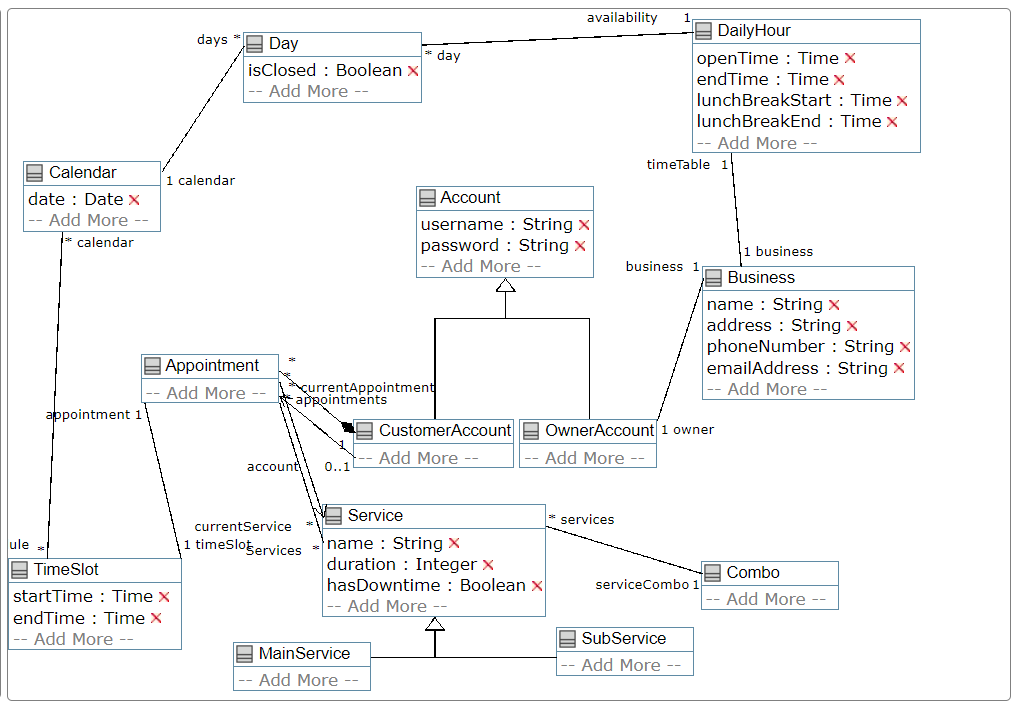
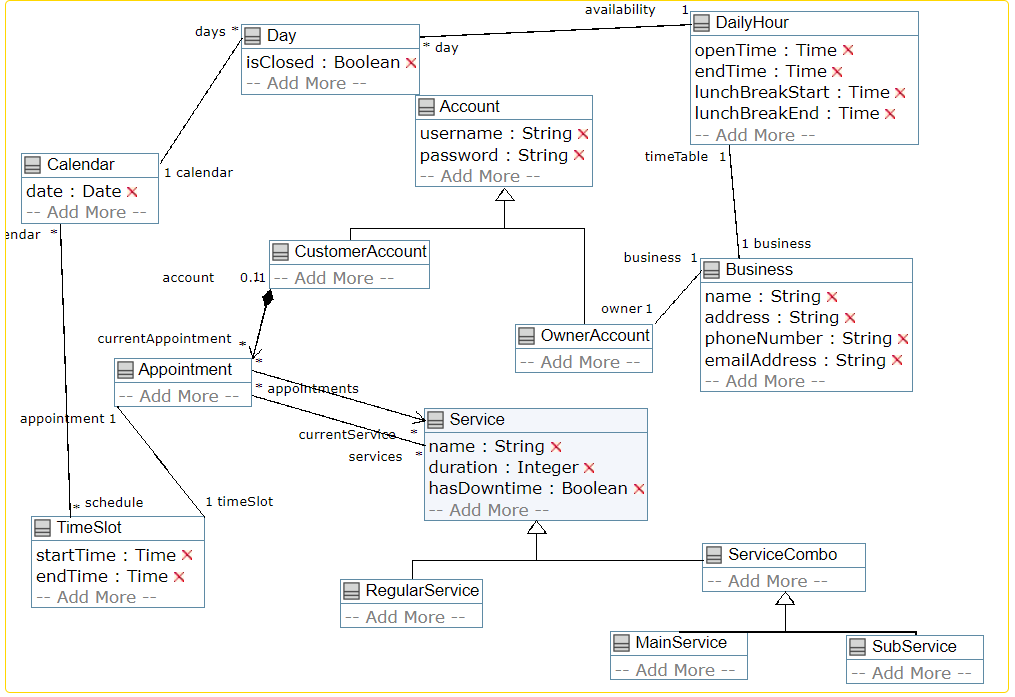
redone generated code

diff --git a/src/ca/mcgill/ecse223/flexibook/model/Appointment.java b/src/ca/mcgill/ecse223/flexibook/model/Appointment.java
@@ -6,7 +6,7 @@ import java.util.*;
 import java.sql.Time;
 
 // line 14 "../../../../../DomainModel.ump"
-// line 102 "../../../../../DomainModel.ump"
+// line 106 "../../../../../DomainModel.ump"
 public class Appointment
 {
 
@@ -17,7 +17,7 @@ public class Appointment
   //Appointment Associations
   private TimeSlot timeSlot;
   private List<Service> currentService;
-  private List<Service> Services;
+  private List<Service> services;
   private CustomerAccount customerAccount;
 
   //------------------------
@@ -32,7 +32,7 @@ public class Appointment
     }
     timeSlot = aTimeSlot;
     currentService = new ArrayList<Service>();
-    Services = new ArrayList<Service>();
+    services = new ArrayList<Service>();
     boolean didAddCustomerAccount = setCustomerAccount(aCustomerAccount);
     if (!didAddCustomerAccount)
     {
@@ -44,7 +44,7 @@ public class Appointment
   {
     timeSlot = new TimeSlot(aStartTimeForTimeSlot, aEndTimeForTimeSlot, this);
     currentService = new ArrayList<Service>();
-    Services = new ArrayList<Service>();
+    services = new ArrayList<Service>();
     boolean didAddCustomerAccount = setCustomerAccount(aCustomerAccount);
     if (!didAddCustomerAccount)
     {
@@ -93,31 +93,31 @@ public class Appointment
   /* Code from template association_GetMany */
   public Service getService(int index)
   {
-    Service aService = Services.get(index);
+    Service aService = services.get(index);
     return aService;
   }
 
   public List<Service> getServices()
   {
-    List<Service> newServices = Collections.unmodifiableList(Services);
+    List<Service> newServices = Collections.unmodifiableList(services);
     return newServices;
   }
 
   public int numberOfServices()
   {
-    int number = Services.size();
+    int number = services.size();
     return number;
   }
 
   public boolean hasServices()
   {
-    boolean has = Services.size() > 0;
+    boolean has = services.size() > 0;
     return has;
   }
 
   public int indexOfService(Service aService)
   {
-    int index = Services.indexOf(aService);
+    int index = services.indexOf(aService);
     return index;
   }
   /* Code from template association_GetOne */
@@ -191,8 +191,8 @@ public class Appointment
   public boolean addService(Service aService)
   {
     boolean wasAdded = false;
-    if (Services.contains(aService)) { return false; }
-    Services.add(aService);
+    if (services.contains(aService)) { return false; }
+    services.add(aService);
     if (aService.indexOfAppointment(this) != -1)
     {
       wasAdded = true;
@@ -202,7 +202,7 @@ public class Appointment
       wasAdded = aService.addAppointment(this);
       if (!wasAdded)
       {
-        Services.remove(aService);
+        services.remove(aService);
       }
     }
     return wasAdded;
@@ -211,13 +211,13 @@ public class Appointment
   public boolean removeService(Service aService)
   {
     boolean wasRemoved = false;
-    if (!Services.contains(aService))
+    if (!services.contains(aService))
     {
       return wasRemoved;
     }
 
-    int oldIndex = Services.indexOf(aService);
-    Services.remove(oldIndex);
+    int oldIndex = services.indexOf(aService);
+    services.remove(oldIndex);
     if (aService.indexOfAppointment(this) == -1)
     {
       wasRemoved = true;
@@ -227,7 +227,7 @@ public class Appointment
       wasRemoved = aService.removeAppointment(this);
       if (!wasRemoved)
       {
-        Services.add(oldIndex,aService);
+        services.add(oldIndex,aService);
       }
     }
     return wasRemoved;
@@ -240,8 +240,8 @@ public class Appointment
     {
       if(index < 0 ) { index = 0; }
       if(index > numberOfServices()) { index = numberOfServices() - 1; }
-      Services.remove(aService);
-      Services.add(index, aService);
+      services.remove(aService);
+      services.add(index, aService);
       wasAdded = true;
     }
     return wasAdded;
@@ -250,12 +250,12 @@ public class Appointment
   public boolean addOrMoveServiceAt(Service aService, int index)
   {
     boolean wasAdded = false;
-    if(Services.contains(aService))
+    if(services.contains(aService))
     {
       if(index < 0 ) { index = 0; }
       if(index > numberOfServices()) { index = numberOfServices() - 1; }
-      Services.remove(aService);
-      Services.add(index, aService);
+      services.remove(aService);
+      services.add(index, aService);
       wasAdded = true;
     } 
     else 
@@ -293,8 +293,8 @@ public class Appointment
       existingTimeSlot.delete();
     }
     currentService.clear();
-    ArrayList<Service> copyOfServices = new ArrayList<Service>(Services);
-    Services.clear();
+    ArrayList<Service> copyOfServices = new ArrayList<Service>(services);
+    services.clear();
     for(Service aService : copyOfServices)
     {
       aService.removeAppointment(this);

diff --git a/src/ca/mcgill/ecse223/flexibook/model/Service.java b/src/ca/mcgill/ecse223/flexibook/model/Service.java
@@ -5,7 +5,7 @@ package ca.mcgill.ecse223.flexibook.model;
 import java.util.*;
 
 // line 34 "../../../../../DomainModel.ump"
-// line 125 "../../../../../DomainModel.ump"
+// line 129 "../../../../../DomainModel.ump"
 public class Service
 {
 
@@ -20,23 +20,17 @@ public class Service
 
   //Service Associations
   private List<Appointment> appointments;
-  private Combo serviceCombo;
 
   //------------------------
   // CONSTRUCTOR
   //------------------------
 
-  public Service(String aName, int aDuration, boolean aHasDowntime, Combo aServiceCombo)
+  public Service(String aName, int aDuration, boolean aHasDowntime)
   {
     name = aName;
     duration = aDuration;
     hasDowntime = aHasDowntime;
     appointments = new ArrayList<Appointment>();
-    boolean didAddServiceCombo = setServiceCombo(aServiceCombo);
-    if (!didAddServiceCombo)
-    {
-      throw new RuntimeException("Unable to create service due to serviceCombo. See http://manual.umple.org?RE002ViolationofAssociationMultiplicity.html");
-    }
   }
 
   //------------------------
@@ -115,11 +109,6 @@ public class Service
   {
     int index = appointments.indexOf(aAppointment);
     return index;
-  }
-  /* Code from template association_GetOne */
-  public Combo getServiceCombo()
-  {
-    return serviceCombo;
   }
   /* Code from template association_MinimumNumberOfMethod */
   public static int minimumNumberOfAppointments()
@@ -204,25 +193,6 @@ public class Service
     }
     return wasAdded;
   }
-  /* Code from template association_SetOneToMany */
-  public boolean setServiceCombo(Combo aServiceCombo)
-  {
-    boolean wasSet = false;
-    if (aServiceCombo == null)
-    {
-      return wasSet;
-    }
-
-    Combo existingServiceCombo = serviceCombo;
-    serviceCombo = aServiceCombo;
-    if (existingServiceCombo != null && !existingServiceCombo.equals(aServiceCombo))
-    {
-      existingServiceCombo.removeService(this);
-    }
-    serviceCombo.addService(this);
-    wasSet = true;
-    return wasSet;
-  }
 
   public void delete()
   {
@@ -232,12 +202,6 @@ public class Service
     {
       aAppointment.removeService(this);
     }
-    Combo placeholderServiceCombo = serviceCombo;
-    this.serviceCombo = null;
-    if(placeholderServiceCombo != null)
-    {
-      placeholderServiceCombo.removeService(this);
-    }
   }
 
 
@@ -246,7 +210,6 @@ public class Service
     return super.toString() + "["+
             "name" + ":" + getName()+ "," +
             "duration" + ":" + getDuration()+ "," +
-            "hasDowntime" + ":" + getHasDowntime()+ "]" + System.getProperties().getProperty("line.separator") +
-            "  " + "serviceCombo = "+(getServiceCombo()!=null?Integer.toHexString(System.identityHashCode(getServiceCombo())):"null");
+            "hasDowntime" + ":" + getHasDowntime()+ "]";
   }
 }

diff --git a/src/ca/mcgill/ecse223/flexibook/model/SubService.java b/src/ca/mcgill/ecse223/flexibook/model/SubService.java
@@ -4,9 +4,9 @@
 package ca.mcgill.ecse223.flexibook.model;
 import java.util.*;
 
-// line 82 "../../../../../DomainModel.ump"
-// line 170 "../../../../../DomainModel.ump"
-public class SubService extends Service
+// line 81 "../../../../../DomainModel.ump"
+// line 174 "../../../../../DomainModel.ump"
+public class SubService extends ServiceCombo
 {
 
   //------------------------
@@ -17,9 +17,9 @@ public class SubService extends Service
   // CONSTRUCTOR
   //------------------------
 
-  public SubService(String aName, int aDuration, boolean aHasDowntime, Combo aServiceCombo)
+  public SubService(String aName, int aDuration, boolean aHasDowntime)
   {
-    super(aName, aDuration, aHasDowntime, aServiceCombo);
+    super(aName, aDuration, aHasDowntime);
   }
 
   //------------------------

diff --git a/src/ca/mcgill/ecse223/flexibook/model/RegularService.java b/src/ca/mcgill/ecse223/flexibook/model/RegularService.java
@@ -4,9 +4,9 @@
 package ca.mcgill.ecse223.flexibook.model;
 import java.util.*;
 
-// line 76 "../../../../../DomainModel.ump"
-// line 169 "../../../../../DomainModel.ump"
-public class MainService extends ServiceCombo
+// line 86 "../../../../../DomainModel.ump"
+// line 179 "../../../../../DomainModel.ump"
+public class RegularService extends Service
 {
 
   //------------------------
@@ -17,7 +17,7 @@ public class MainService extends ServiceCombo
   // CONSTRUCTOR
   //------------------------
 
-  public MainService(String aName, int aDuration, boolean aHasDowntime)
+  public RegularService(String aName, int aDuration, boolean aHasDowntime)
   {
     super(aName, aDuration, aHasDowntime);
   }

diff --git a/src/ca/mcgill/ecse223/flexibook/model/ServiceCombo.java b/src/ca/mcgill/ecse223/flexibook/model/ServiceCombo.java
@@ -4,9 +4,9 @@
 package ca.mcgill.ecse223.flexibook.model;
 import java.util.*;
 
-// line 76 "../../../../../DomainModel.ump"
-// line 169 "../../../../../DomainModel.ump"
-public class MainService extends ServiceCombo
+// line 41 "../../../../../DomainModel.ump"
+// line 156 "../../../../../DomainModel.ump"
+public class ServiceCombo extends Service
 {
 
   //------------------------
@@ -17,7 +17,7 @@ public class MainService extends ServiceCombo
   // CONSTRUCTOR
   //------------------------
 
-  public MainService(String aName, int aDuration, boolean aHasDowntime)
+  public ServiceCombo(String aName, int aDuration, boolean aHasDowntime)
   {
     super(aName, aDuration, aHasDowntime);
   }

diff --git a/src/ca/mcgill/ecse223/flexibook/model/CustomerAccount.java b/src/ca/mcgill/ecse223/flexibook/model/CustomerAccount.java
@@ -4,8 +4,8 @@
 package ca.mcgill.ecse223.flexibook.model;
 import java.util.*;
 
-// line 70 "../../../../../DomainModel.ump"
-// line 160 "../../../../../DomainModel.ump"
+// line 69 "../../../../../DomainModel.ump"
+// line 164 "../../../../../DomainModel.ump"
 public class CustomerAccount extends Account
 {
 

diff --git a/src/ca/mcgill/ecse223/flexibook/model/DailyHour.java b/src/ca/mcgill/ecse223/flexibook/model/DailyHour.java
@@ -5,8 +5,8 @@ package ca.mcgill.ecse223.flexibook.model;
 import java.sql.Time;
 import java.util.*;
 
-// line 62 "../../../../../DomainModel.ump"
-// line 145 "../../../../../DomainModel.ump"
+// line 61 "../../../../../DomainModel.ump"
+// line 149 "../../../../../DomainModel.ump"
 public class DailyHour
 {
 

diff --git a/src/ca/mcgill/ecse223/flexibook/model/Business.java b/src/ca/mcgill/ecse223/flexibook/model/Business.java
@@ -5,8 +5,8 @@ package ca.mcgill.ecse223.flexibook.model;
 import java.sql.Time;
 import java.util.*;
 
-// line 47 "../../../../../DomainModel.ump"
-// line 132 "../../../../../DomainModel.ump"
+// line 46 "../../../../../DomainModel.ump"
+// line 136 "../../../../../DomainModel.ump"
 public class Business
 {
 

diff --git a/src/ca/mcgill/ecse223/flexibook/model/Day.java b/src/ca/mcgill/ecse223/flexibook/model/Day.java
@@ -3,8 +3,8 @@
 
 package ca.mcgill.ecse223.flexibook.model;
 
-// line 57 "../../../../../DomainModel.ump"
-// line 140 "../../../../../DomainModel.ump"
+// line 56 "../../../../../DomainModel.ump"
+// line 144 "../../../../../DomainModel.ump"
 public class Day
 {
 

diff --git a/src/ca/mcgill/ecse223/flexibook/model/OwnerAccount.java b/src/ca/mcgill/ecse223/flexibook/model/OwnerAccount.java
@@ -5,7 +5,7 @@ package ca.mcgill.ecse223.flexibook.model;
 import java.util.*;
 
 // line 9 "../../../../../DomainModel.ump"
-// line 97 "../../../../../DomainModel.ump"
+// line 101 "../../../../../DomainModel.ump"
 public class OwnerAccount extends Account
 {
 

diff --git a/src/ca/mcgill/ecse223/flexibook/model/Account.java b/src/ca/mcgill/ecse223/flexibook/model/Account.java
@@ -5,7 +5,7 @@ package ca.mcgill.ecse223.flexibook.model;
 import java.util.*;
 
 // line 3 "../../../../../DomainModel.ump"
-// line 92 "../../../../../DomainModel.ump"
+// line 96 "../../../../../DomainModel.ump"
 public class Account
 {
 

diff --git a/src/ca/mcgill/ecse223/flexibook/model/Calendar.java b/src/ca/mcgill/ecse223/flexibook/model/Calendar.java
@@ -6,7 +6,7 @@ import java.sql.Date;
 import java.util.*;
 
 // line 27 "../../../../../DomainModel.ump"
-// line 118 "../../../../../DomainModel.ump"
+// line 122 "../../../../../DomainModel.ump"
 public class Calendar
 {
 
